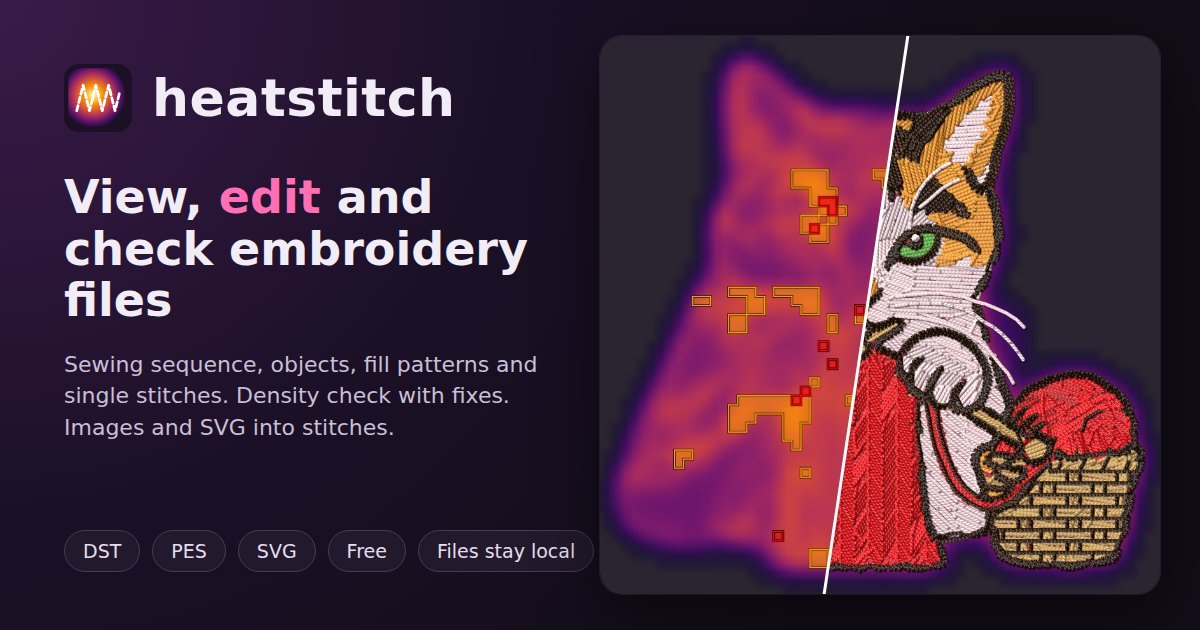
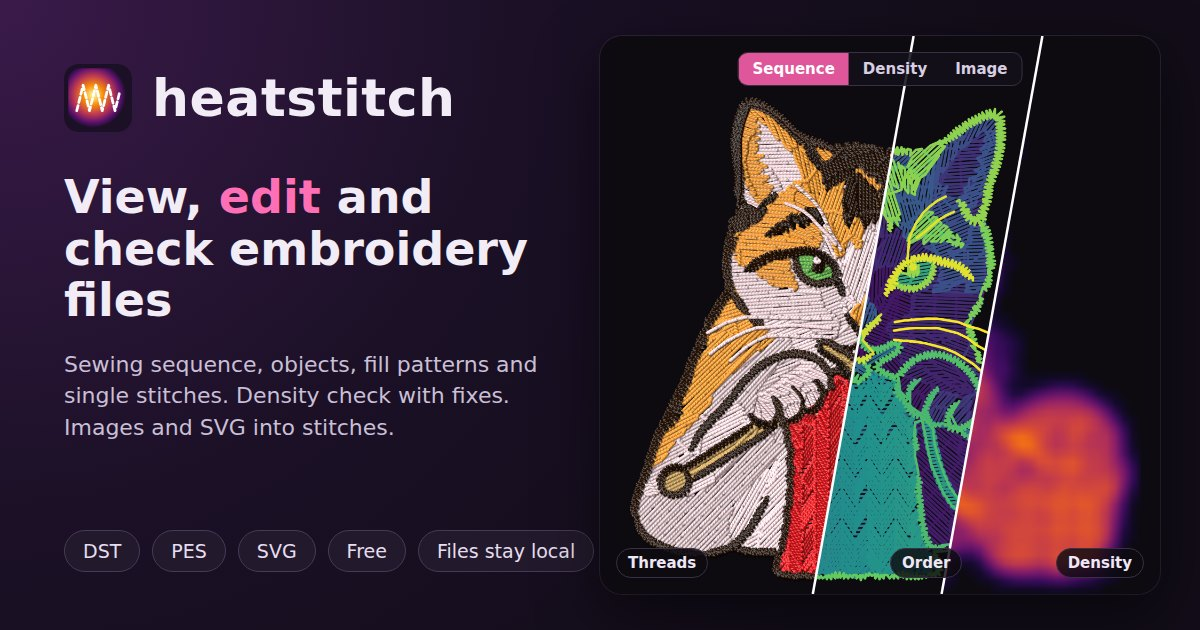
Use the three-way split view in the og-image
Claude-Session: https://claude.ai/code/session_013YzaKskVKFKGJ4wbJEM49d

diff --git a/index.html b/index.html
@@ -24,7 +24,7 @@
     <meta property="og:image:type" content="image/jpeg" />
     <meta property="og:image:width" content="1200" />
     <meta property="og:image:height" content="630" />
-    <meta property="og:image:alt" content="heatstitch showing an embroidered cat as a stitch density heatmap next to its realistic thread view" />
+    <meta property="og:image:alt" content="An embroidered cat in heatstitch, shown three ways: realistic threads, sewing order and density heatmap" />
     <meta property="og:locale" content="en_US" />
     <meta property="og:locale:alternate" content="de_DE" />
 
@@ -33,7 +33,7 @@
     <meta name="twitter:title" content="heatstitch: view, edit and check embroidery files" />
     <meta name="twitter:description" content="Sewing sequence, objects, fill patterns and single stitches, plus a density check that fixes what is too dense. Turns pictures and SVG into stitches. Free, and your files never leave your device." />
     <meta name="twitter:image" content="https://pfedan.github.io/heatstitch/og-image.jpg" />
-    <meta name="twitter:image:alt" content="heatstitch showing an embroidered cat as a stitch density heatmap next to its realistic thread view" />
+    <meta name="twitter:image:alt" content="An embroidered cat in heatstitch, shown three ways: realistic threads, sewing order and density heatmap" />
 
     <script type="application/ld+json">
       {

diff --git a/docs.html b/docs.html
@@ -21,10 +21,10 @@
     <meta property="og:image:type" content="image/jpeg" />
     <meta property="og:image:width" content="1200" />
     <meta property="og:image:height" content="630" />
-    <meta property="og:image:alt" content="heatstitch showing an embroidered cat as a stitch density heatmap next to its realistic thread view" />
+    <meta property="og:image:alt" content="An embroidered cat in heatstitch, shown three ways: realistic threads, sewing order and density heatmap" />
     <meta name="twitter:card" content="summary_large_image" />
     <meta name="twitter:image" content="https://pfedan.github.io/heatstitch/og-image.jpg" />
-    <meta name="twitter:image:alt" content="heatstitch showing an embroidered cat as a stitch density heatmap next to its realistic thread view" />
+    <meta name="twitter:image:alt" content="An embroidered cat in heatstitch, shown three ways: realistic threads, sewing order and density heatmap" />
   </head>
   <body>
     <header class="doc-top">

diff --git a/README.md b/README.md
@@ -5,7 +5,7 @@ backend, no uploads: your files never leave your machine.
 
 **Try it: <https://pfedan.github.io/heatstitch/>** (guide: [docs.html](https://pfedan.github.io/heatstitch/docs.html))
 
-![heatstitch: an embroidered cat as a density heatmap next to its realistic thread view](public/og-image.jpg)
+![heatstitch: an embroidered cat as realistic threads, in sewing order and as a density heatmap](public/og-image.jpg)
 
 ## Three modes
 
